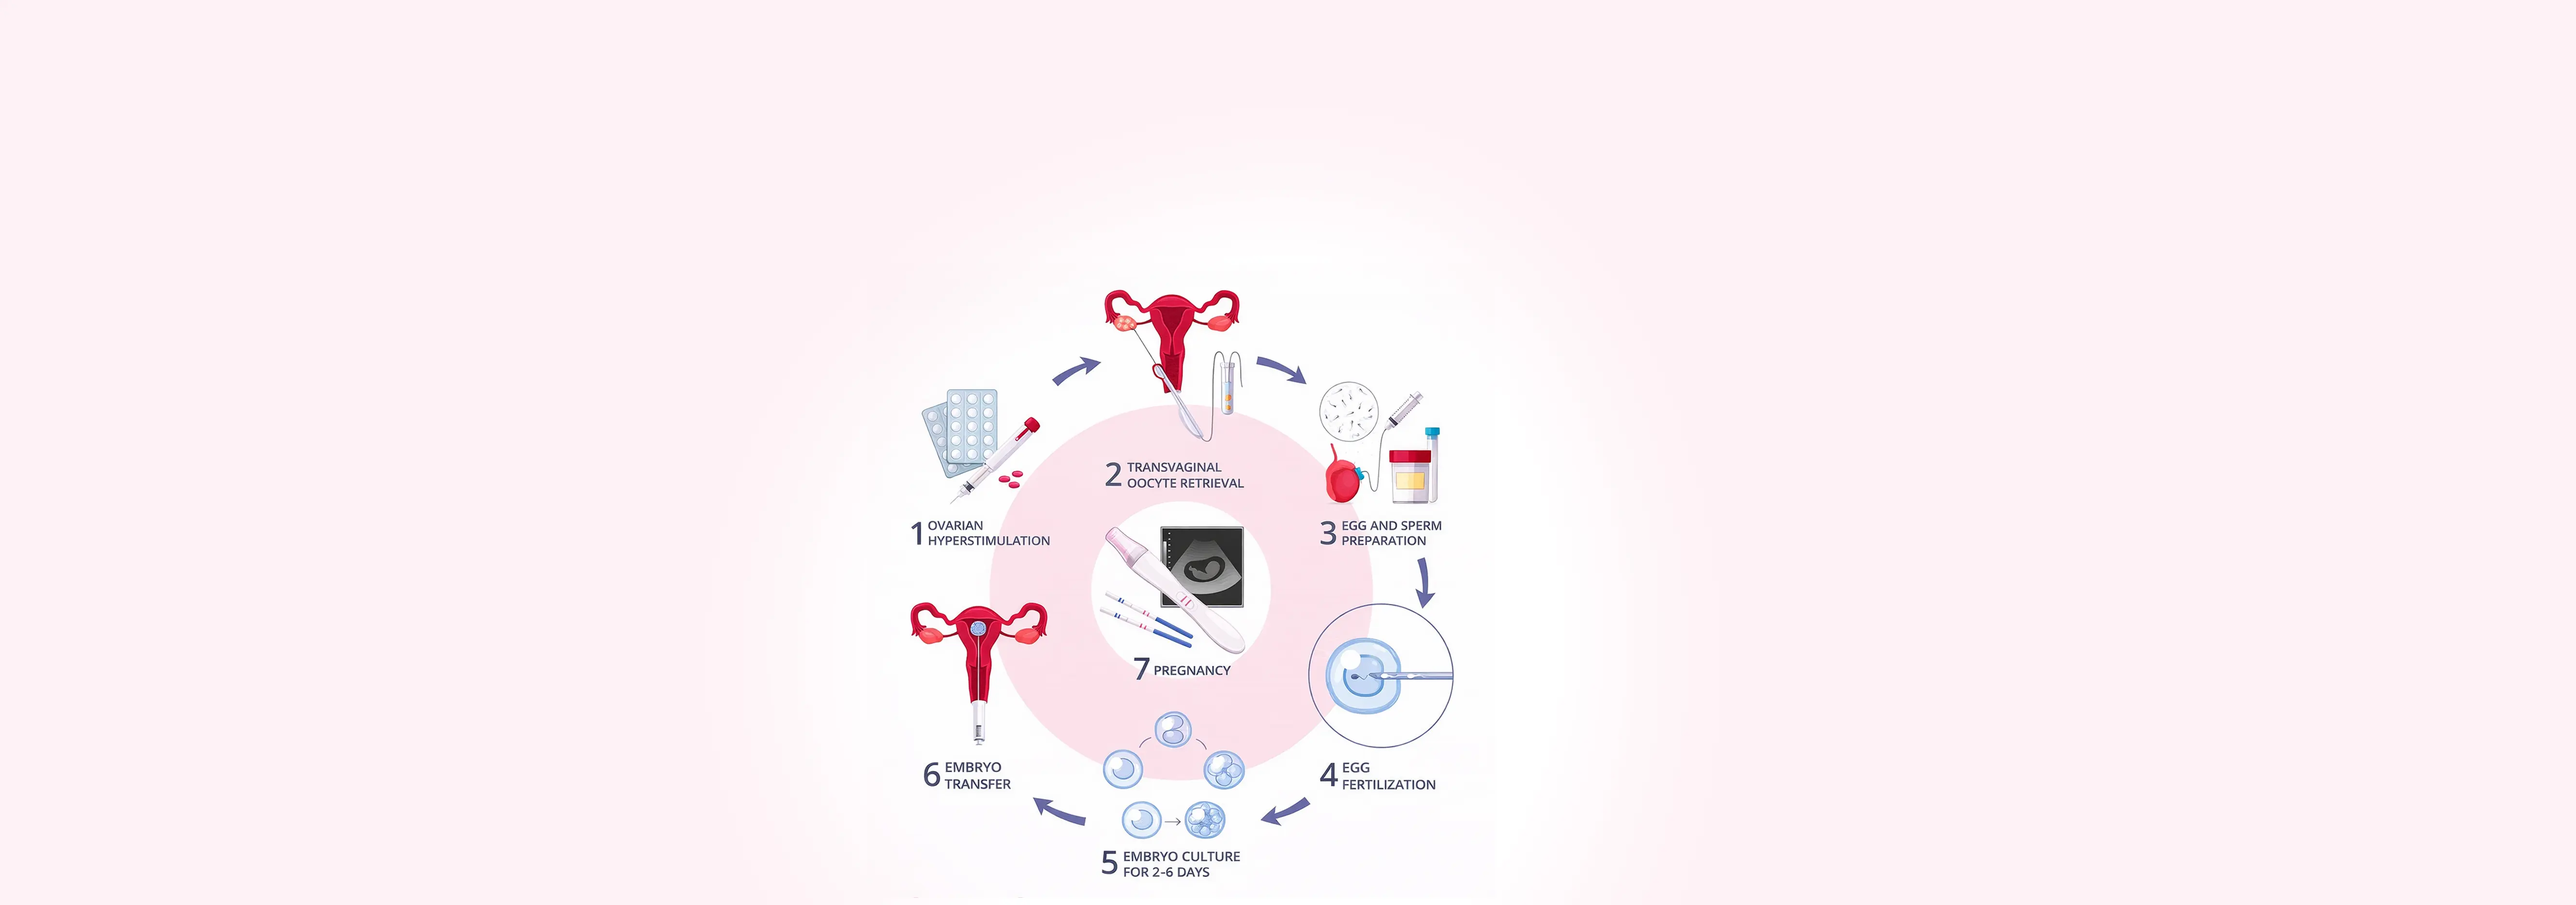
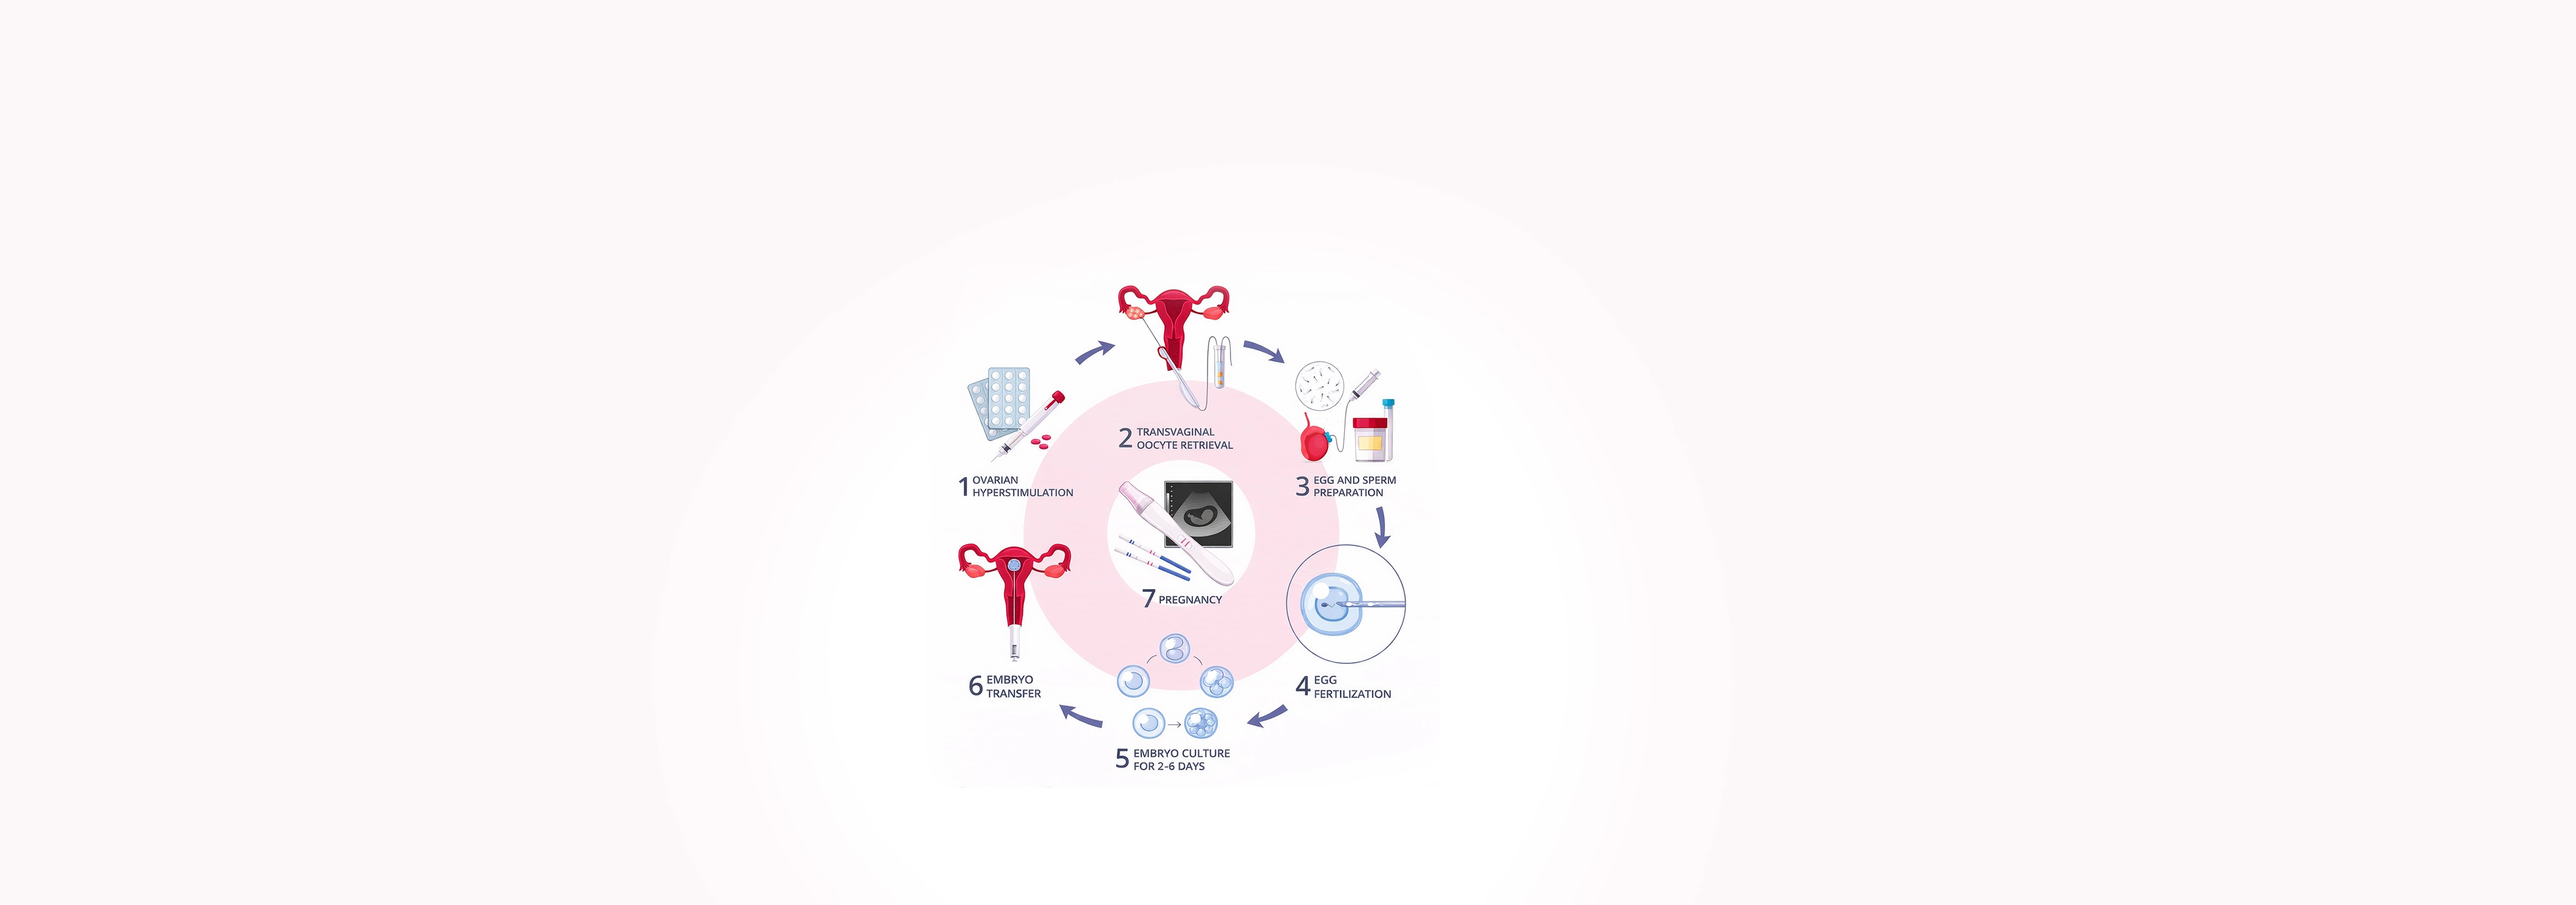
hh

Changed region(s): [[0.3431, 0.3102, 0.5614, 0.9925]]

diff --git a/scripts/blog-content/dummy-blog.html b/scripts/blog-content/dummy-blog.html
@@ -1,71 +1,70 @@
-<h2> What is a False Positive Pregnancy Test? </h2>
-<p>A false positive pregnancy test is a situation where a pregnancy test yields a positive result even though you are
-    not pregnant. This can be quite confusing and overwhelming, especially if you have done a home pregnancy test kit
-    positive or pregnancy kit positive.</p>
-<p>It is, however, crucial to understand can you get a false positive pregnancy test? The answer is yes, although it is
-    quite rare and may occur for some medical or technical reason.</p>
-<h2> Can You Get a False Positive Pregnancy Test? </h2>
-<p>Many women wonder whether you can get a false positive pregnancy test result. The answer is yes, but it is very rare.
-    Most pregnancy tests are very accurate these days, but there are some reasons why you can get a false positive
-    pregnancy test result.</p>
-<p>One should not rely on a single pregnancy kit result and get a confirmation from a doctor.</p>
-<h2> What Causes False Positive Pregnancy Test? </h2>
-<p>Knowing the what causes of false positive pregnancy test results can help you avoid confusion. The causes are as
-    follows:</p>
-<li>1. Chemical Pregnancy</li>
-<p>A very early pregnancy loss causes a temporary positive pregnancy test kit result.</p>
-<li>2. Medications</li>
-<p>Some fertility medications have hCG, and they can cause false positive pregnancy test results.</p>
-<li>3. Medical Conditions</li>
-<p>Some medical conditions, although very rare, can affect the test results.</p>
-<li>4. Evaporation Lines or User Error</li>
-<p>Inappropriate use of the pregnancy kit positive test and interpretation of the results after the recommended time can
-    cause confusion.</p>
-<p>This is an overview of the main what causes of false positive pregnancy test results.</p>
-<h2> Chances of a False Positive Pregnancy Test </h2>
-<p>The chances of false positives for a pregnancy test is low, considering that home pregnancy test kits have an
-    accuracy rate of more than 99%. However, there are instances where miscarriages, fertility treatments, and medical
-    conditions can cause false positives for a pregnancy test.</p>
-<p>It is always advisable to have medical confirmation after experiencing a home pregnancy test kit positive result.</p>
-<h2> What to Do After a Positive Pregnancy Test? </h2>
-<p>In case the pregnancy kit test result is positive, the following are the next steps:</p>
-<li>Repeat the test after a few days</li>
-<li>Get a blood test (beta hCG) to confirm the results</li>
-<li>Consult a specialist to ensure the correct diagnosis</li>
-<p>Consulting a trusted fertility clinic near me is the best way to ensure the correct evaluation and guidance.</p>
-<h3>False Positive Pregnancy Test and IVF Treatments </h3>
-<p>In the case of couples who are undergoing treatment at the best ivf centre in delhi, the chances of a false positive
-    pregnancy test may occur due to hormone injections during the IVF process.</p>
-<p>At such a juncture of life, it is important to consult the best ivf doctor in delhi.</p>
-<h3> When Should You See a Doctor? </h3>
-<p>You should consult a doctor if:</p>
-<li>You are getting false positive pregnancy test results</li>
-<li>You are suffering with symptoms but are not pregnant</li>
-<li>You are undergoing fertility treatment</li>
-<p>Consulting the best ivf doctor at an early stage can help avoid confusion and proper care can be taken.</p>
-<h3>Choosing the Right Fertility Expert </h3>
-<p>In cases where one is faced with conflicting findings, such as a positive pregnancy result when one is not pregnant,
-    it is important to seek the best expert.</p>
-<p>At Seeds of Innocens IVF & Fertility Centre, we are the best ivf centre in delhi with the best ivf doctor in delhi to
-    offer accurate diagnosis and treatment at the best fertility clinic near me.</p>
+<h2> What is an AMH Test? </h2>
+<p>An amh test measures the level of anti-müllerian hormone (amh) in a woman's blood. Amh is produced by ovarian follicles
+and indicates the number of eggs (or ovarian reserve) available to a woman. Knowing amh test meaning helps women who
+want to get pregnant. It determines the likelihood of getting pregnant and helps your doctor determine what is the best
+treatment plan for you.</p>
+<h2> AMH Test Meaning and Importance </h2>
+<p>The amh test meaning refers to the ability of a woman to provide future children with high-quality reproductive cells.
+While an amh test does not measure egg quality, it gives an indication of how many eggs are available in a woman's
+ovaries. It is common for doctors to order the amh blood test for women who are experiencing difficulty conceiving or
+who are planning to postpone having children. The test results are very useful for making diagnosis of how many amh has
+been produced based on the test results and make decisions regarding fertility.</p>
+<h2> AMH Test: When to Do? </h2>
+<p>The amh test is a question you should ask yourself often, and when should I get an amh test? An AMH test can be
+performed on any day of your menstrual cycle, so you don’t need to worry about timing the AMH test with other hormonal
+testing, which is a nice benefit to using the AMH test. Planning a family, having irregular periods and/or receiving
+fertility treatment are situations where the AMH blood test may be useful because it provides you with information on
+your reproductive health.</p>
+<h2> AMH Test Normal Range </h2>
+<p>Understanding a person's fertility status is aided by familiarity with the AMH test's normal range; typically, high AMH
+levels are indicative of polycystic ovarian syndrome (PCOS), normal AMH levels represent an adequate ovarian reserve,
+and low AMH levels suggest a decreased ovarian reserve. It is important that the interpretation of a person's AMH test
+normal ranges be made only by a qualified medical provider and may differ from person-to-person with regard to age
+and/or medical history.</p>
+<h2> AMH Test Price and Accessibility </h2>
+<p>A common worry about the amh test is how much the amh test costs? Costs for amh tests can differ according to location
+of where you live, what clinic you go to and what laboratory you are taking the test at. If you go to a fertility clinic
+near me that has good reputation, most likely your test will be inexpensive but will also give you very helpful
+information in determining whether you should begin trying to become pregnant.</p>
+<h3> Why is AMH Test Important for IVF? </h3>
+<p>The AMH test is commonly performed on couples going to a leading best IVF centre in Delhi as part of their first step
+towards fertility evaluation. The test enables doctors to:</p>
+<li>- Determine IVF protocols</li>
+<li>- Determine dosages of fertility drugs</li>
+<li>- Provide a prediction of the expected ovarian stimulation response</li>
+<p>By consulting a leading fertility doctor in Delhi or qualified IVF specialist, you will have a better understanding of
+how your AMH levels are interpreted and will therefore get optimal treatment.</p>
+<h3> When Should You Take an AMH Test? </h3>
+<p>Consider getting an Amh Test if:</p>
+<li>- You're trying to conceive after age 30</li>
+<li>- You have irregular menstrual cycles</li>
+<li>- You've had trouble conceiving</li>
+<li>- You're going to be going through IVF or infertility treatment</li>
+<p>Early testing will help you to make informed decisions regarding your fertility.</p>
 
-<h3>FAQs</h3>
-<h4>1. Can you get a false positive pregnancy test? </h4>
-<p>Yes, can you get a false positive pregnancy test is a common concern. Although rare, a false positive pregnancy test
-    can occur due to certain medical conditions, medications, or testing errors.</p>
 
-<h4> 2. What causes a false positive pregnancy test? </h4>
-<p>What causes false positive pregnancy test results can include early pregnancy loss (chemical pregnancy), fertility
-    medications, or incorrect use of a home pregnancy test kit positive result.</p>
 
-<h4> 3. What are the chances of a false positive pregnancy test? </h4>
-<p>The chances of a false positive pregnancy test are low, as most tests are highly accurate. However, factors like IVF
-    treatments or hormonal imbalances can slightly increase the chances.</p>
+<h3> FAQs </h3>
+<h3> 1. What is AMH test and what does it mean? </h3>
+<p>The amh test is a blood test that measures Anti-Müllerian Hormone levels to assess ovarian reserve. Understanding amh
+test meaning or amh test means helps in evaluating a woman’s fertility potential.</p>
+<h4> 2. When should I take an AMH test? </h4>
+<p>If you’re wondering amh test when to do, the good news is that it can be done at any time during the menstrual cycle. It
+is recommended when planning pregnancy or before starting infertility treatment.</p>
+<h4> 3. What is the normal range of AMH levels? </h4>
+<p>The amh test normal range varies by age, but normal amh levels usually indicate a good ovarian reserve. Low levels may
+suggest reduced fertility, while high levels can be linked to conditions like PCOS.</p>
+<h4> 4. What is the cost of an AMH test? </h4>
+<p>The amh test price depends on the clinic and location. You can get it done at a reliable fertility clinic near me for
+accurate results and proper guidance.</p>
+<h4> 5. Why is AMH test important for IVF? </h4>
 
-<h4> 4. Can a home pregnancy test kit positive result be wrong? </h4>
-<p>Yes, a home pregnancy test kit positive or pregnancy kit positive result can sometimes be incorrect. It is always
-    recommended to confirm with a blood test and consult a doctor.</p>
+<p>The amh test is crucial for IVF as it helps doctors at the best ivf centre in Delhi determine the right treatment plan.
+Consulting the best ivf doctor in Delhi or a best ivf Specialist ensures proper evaluation of your amh levels.</p>
 
-<h4> 5. What should I do after a false positive pregnancy test? </h4>
-<p>If you suspect a false positive pregnancy test, repeat the test and consult a specialist at a fertility clinic near
-    me or with the best ivf doctor in delhi for accurate diagnosis and guidance.</p>
+<h3> Choosing the Right Fertility Expert </h3>
+<p>It's also advisable that anyone about to take an AMH test should be properly consulting the appropriate professional.</p>
+<p>Seeds of Innocents IVF & Fertility Centre, recognized as the best IVF Centre in Delhi, employs qualified staff and an
+experienced doctor. Together, they will provide you with the right diagnosis and/or not. Our team of professionals is
+trained to give each patient proper evaluation and will direct them toward the best possible infertility treatments at
+the level of the best fertility clinic in America.</p>

diff --git a/src/app/Components/GlobalAppointmentPopup/index.jsx b/src/app/Components/GlobalAppointmentPopup/index.jsx
@@ -71,7 +71,7 @@ const GlobalAppointmentPopup = () => {
       email: '',
       center: formData.get('center'),
       captchaAccepted: formData.get('captchaAccepted') === 'on',
-      message: 'Appointment requested from popup form',
+      message: '',
     };
 
     if (!dataObj.center) {
